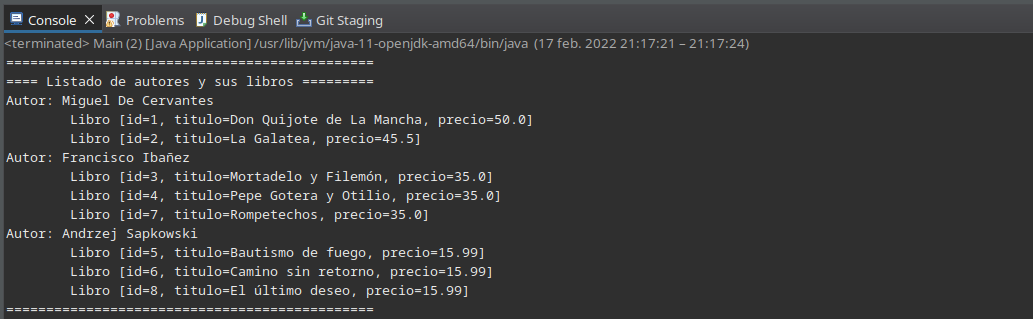
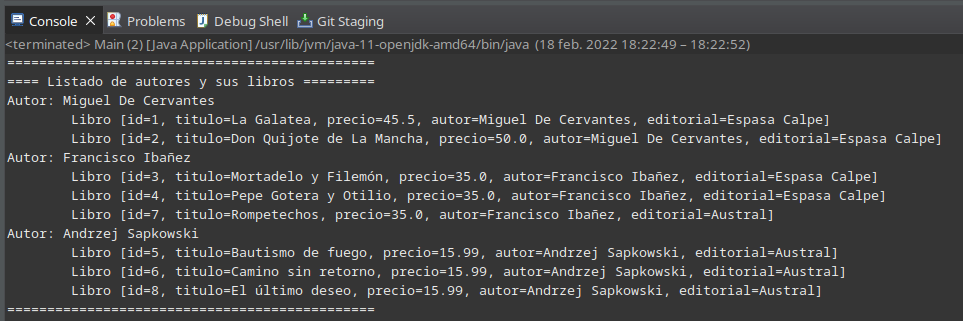
Mejoras y refactorización del código y comentarios

diff --git a/Actividad3/src/main/java/test/InitBBDD.java b/Actividad3/src/main/java/test/InitBBDD.java
@@ -43,8 +43,7 @@ public class InitBBDD {
 	public static void start() {
 
 		altasRequerimiento();
-		asignacionesManyToOne();
-		asignacionesOneToMany();
+		asignaciones();
 		asignacionesManyToMany();
 
 		em = emf.createEntityManager();
@@ -122,71 +121,32 @@ public class InitBBDD {
 
 	}
 
-	// Método que asigna a los objetos del extremo Many de la relación OneToMany
-	private static void asignacionesManyToOne() {
+	private static void asignaciones() {
 
-		// Autores a libros
-		libro1.setAutor(autor1);
-		libro2.setAutor(autor1);
+		// Asignamos los libros a los autores y automáticamente se asignarán los autores
+		// a los libros
+		autor1.asignarLibroAAutor(libro1);
+		autor1.asignarLibroAAutor(libro2);
 
-		libro3.setAutor(autor2);
-		libro4.setAutor(autor2);
-		libro5.setAutor(autor2);
+		autor2.asignarLibroAAutor(libro3);
+		autor2.asignarLibroAAutor(libro4);
+		autor2.asignarLibroAAutor(libro5);
 
-		libro6.setAutor(autor3);
-		libro7.setAutor(autor3);
-		libro8.setAutor(autor3);
+		autor3.asignarLibroAAutor(libro6);
+		autor3.asignarLibroAAutor(libro7);
+		autor3.asignarLibroAAutor(libro8);
 
-		// Editoriales a libros
-		libro1.setEditorial(editorial1);
-		libro2.setEditorial(editorial1);
-		libro3.setEditorial(editorial1);
-		libro4.setEditorial(editorial1);
-
-		libro5.setEditorial(editorial2);
-		libro6.setEditorial(editorial2);
-		libro7.setEditorial(editorial2);
-		libro8.setEditorial(editorial2);
-
-	}
-
-	// Método que asigna a los objetos del extremo One de la relación OneToMany
-	private static void asignacionesOneToMany() {
-
-		Autor autor = new Autor();
-		Editorial editorial = new Editorial();
-		List<Libro> librosAutores = new ArrayList<>();
-		List<Libro> librosEditoriales = new ArrayList<>();
-
-		// Libros a autores
-		// Utilizamos 2 bucles para asignar el listado de libros a cada autor
-		for (int i = 0; i < listaAutores.size(); i++) {
-			autor = listaAutores.get(i);
-			for (int j = 0; j < listaLibros.size(); j++) {
-				if (listaLibros.get(j).getAutor() == autor) {
-					librosAutores.add(listaLibros.get(j));
-				}
-			}
-			autor.setLibrosDelAutor(librosAutores);
-
-			// Vaciamos la lista para la próxima iteración
-			librosAutores.clear();
-		}
-
-		// Libros a editoriales
-		// Utilizamos 2 bucles para asiganr el listado de libros a cada editorial
-		for (int i = 0; i < listaEditoriales.size(); i++) {
-			editorial = listaEditoriales.get(i);
-			for (int j = 0; j < listaLibros.size(); j++) {
-				if (listaLibros.get(j).getEditorial() == editorial) {
-					librosEditoriales.add(listaLibros.get(j));
-				}
-			}
-			editorial.setLibrosEnEditorial(librosEditoriales);
-
-			// Vaciamos la lista para la próxima iteración
-			librosEditoriales.clear();
-		}
+		// Asignamos los libros a las editoriales y automáticamente se asignarán las editoriales
+		// a los libros		
+		editorial1.asignarLibroAEditorial(libro1);
+		editorial1.asignarLibroAEditorial(libro2);
+		editorial1.asignarLibroAEditorial(libro3);
+		editorial1.asignarLibroAEditorial(libro4);
+		
+		editorial2.asignarLibroAEditorial(libro5);
+		editorial2.asignarLibroAEditorial(libro6);
+		editorial2.asignarLibroAEditorial(libro7);
+		editorial2.asignarLibroAEditorial(libro8);
 	}
 
 	// Método que asigna a los objetos en las relaciones Many to Many
@@ -209,13 +169,13 @@ public class InitBBDD {
 		 * Aunque el enunciado decía que cada librería tendrá 4 libros dados de alta
 		 * previamente, hemos querido complicarlo con las siguientes condiciones
 		 * 
-		 * Los libros que ocupan las primeras posiciones de la listaLibros se encuentran
+		 * Los libros que ocupan las posiciones 0,1,2,3 de la listaLibros se encuentran
 		 * en ambas librerias
 		 * 
-		 * Los libros que ocupan las posiciones 5 y 6 de la listaLibros se encuentra en
+		 * Los libros que ocupan las posiciones 4,5 de la listaLibros se encuentra en
 		 * la libreria1
 		 * 
-		 * Los libros que ocupan las posiciones 7 y 8 de la listaLibros se encuentra en
+		 * Los libros que ocupan las posiciones 6,7 de la listaLibros se encuentra en
 		 * la libreria2
 		 */
 

diff --git a/Actividad3/src/main/java/modelo/entidad/Autor.java b/Actividad3/src/main/java/modelo/entidad/Autor.java
@@ -1,5 +1,6 @@
 package modelo.entidad;
 
+import java.util.ArrayList;
 import java.util.Date;
 import java.util.List;
 
@@ -44,7 +45,7 @@ public class Autor {
 	private List<Libro> librosDelAutor;
 
 	// Relación bidireccional one to one con SGAE (a efectos del requeriento 3)
-	@OneToOne(mappedBy = "autor", cascade=CascadeType.ALL)
+	@OneToOne(mappedBy = "autor", cascade = CascadeType.ALL)
 	private Sgae sgae;
 
 	// Constructores vacíos y con todo
@@ -53,7 +54,7 @@ public class Autor {
 	}
 
 	public Autor(Integer id, String nombre, String apellidos, Date fnacimiento, List<Libro> librosDelAutor, Sgae sgae) {
-		super();
+		super();		
 		this.id = id;
 		this.nombre = nombre;
 		this.apellidos = apellidos;
@@ -101,7 +102,7 @@ public class Autor {
 
 	public void setLibrosDelAutor(List<Libro> librosDelAutor) {
 		this.librosDelAutor = librosDelAutor;
-	}	
+	}
 
 	public Sgae getSgae() {
 		return sgae;
@@ -109,6 +110,20 @@ public class Autor {
 
 	public void setSgae(Sgae sgae) {
 		this.sgae = sgae;
+	}
+
+	/**
+	 * Método que asigna un libro al autor en el caso de que no se encuentre ya
+	 * asignado y asigna el autor al libro
+	 * 
+	 * @param libro Libro a asignar al autor
+	 */
+	public void asignarLibroAAutor(Libro libro) {
+		librosDelAutor = new ArrayList<>();
+		if (!librosDelAutor.contains(libro)) {
+			librosDelAutor.add(libro);
+			libro.setAutor(this);
+		}
 	}
 
 	// Sobrescritura del método toString()

diff --git a/Actividad3/src/main/java/modelo/entidad/Editorial.java b/Actividad3/src/main/java/modelo/entidad/Editorial.java
@@ -1,5 +1,6 @@
 package modelo.entidad;
 
+import java.util.ArrayList;
 import java.util.List;
 
 import javax.persistence.Entity;
@@ -40,7 +41,7 @@ public class Editorial {
 	}	
 
 	public Editorial(Integer id, String nombre, String direccion, List<Libro> librosEnEditorial) {
-		super();
+		super();		
 		this.id = id;
 		this.nombre = nombre;
 		this.direccion = direccion;
@@ -78,6 +79,20 @@ public class Editorial {
 
 	public void setLibrosEnEditorial(List<Libro> librosEnEditorial) {
 		this.librosEnEditorial = librosEnEditorial;
+	}
+	
+	/**
+	 * Método que asigna un libro a una editorial en el caso de que no se encuentre ya
+	 * asignado y asigna la editorial al libro
+	 * 
+	 * @param libro Libro a asignar a la editorial
+	 */
+	public void asignarLibroAEditorial(Libro libro) {
+		librosEnEditorial = new ArrayList<Libro>();
+		if (!librosEnEditorial.contains(libro)) {
+			librosEnEditorial.add(libro);
+			libro.setEditorial(this);
+		}
 	}
 
 	// Sobrescritura del método toString()

diff --git a/Actividad3/src/main/java/test/Main.java b/Actividad3/src/main/java/test/Main.java
@@ -60,8 +60,8 @@ public class Main {
 	// Utilizamos un bucle for-each para presentar la información
 	private static void listarLibros(List<Libro> listaLibros) {
 		for (Libro l : listaLibros) {
-			System.out.println("Libro: " + l.getTitulo() + " "
-					+ l.getAutor().getApellidos() + " / Editorial: " + l.getEditorial().getNombre() + " / Autor: " + l.getAutor().getNombre() );
+			System.out.println("Libro: " + l.getTitulo() + " / Editorial: " + l.getEditorial().getNombre() + " / Autor: " + l.getAutor().getNombre() + " "
+					+ l.getAutor().getApellidos());
 		}
 	}
 

diff --git a/Actividad3/src/main/java/modelo/entidad/Libro.java b/Actividad3/src/main/java/modelo/entidad/Libro.java
@@ -115,6 +115,7 @@ public class Libro {
 	// Sobrescritura del método toString()
 	@Override
 	public String toString() {
-		return "Libro [id=" + id + ", titulo=" + titulo + ", precio=" + precio + "]";
+		return "Libro [id=" + id + ", titulo=" + titulo + ", precio=" + precio + ", autor=" + autor.getNombre() + " "
+				+ autor.getApellidos() + ", editorial=" + editorial.getNombre() + "]";
 	}
 }
